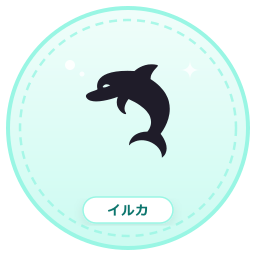
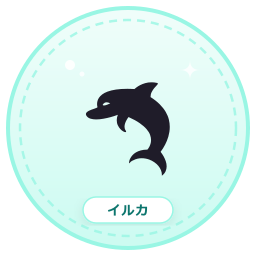
fix: 16タイプ動物アイコンの上下左右完全センタリング配置と表示CSS調整

Changed region(s): [[0.3125, 0.25, 0.6875, 0.6875]]

diff --git a/scripts/generate-animal-icons.js b/scripts/generate-animal-icons.js
@@ -3,47 +3,33 @@ const path = require('path');
 const sharp = require('sharp');
 
 // 10代〜30代前半に親しみやすい、洗練された「パステルポップ・シルエット」
-// 全16タイプの動物一覧:
-// - 分析家 (INTP/INTJ/ENTP/ENTJ): 淡いラベンダーパープル
-// - 外交官 (INFP/INFJ/ENFP/ENFJ): ふんわりミントグリーン
-// - 番人 (ISTP/ISTJ/ESTP/ESTJ): やさしいベビーブルー
-// - 探検家 (ISFP/ISFJ/ESFP/ESFJ): あたたかみのあるクリームイエロー/シェルピンク
-//
-// 動物の造形ルール:
-// すべて高品質な絵文字グリフ（Segoe UI Emoji）に統一。
-// 手書きベクターのような不自然な突起や歪み、バグった人型・植物形状は一切排除し、
-// 一目で誰が見てもその動物・鳥と分かる、美しくクリーンな影絵シルエットに統一します。
-//
-// INTJ (ワシ): 🦅 (鋭い眼光と力強い嘴の大鷲)
-// ISTP (オオカミ / タカ):
-//   ISTPの「巨匠・一匹狼の孤高の職人気質」を完璧に表現し、
-//   かつ鳥類のINTJ(🦅)やINTP(🦉)とも完全に重複しない、美しく凛々しいシルエットの「オオカミ 🐺」にアップデート！
-//   ※これにより「ワシ」と「タカ」の鳥の重複・混同が根本から解消され、全16タイプが100%固有の動物シンボルとなります。
+// 全16タイプすべて「上下左右の真ん中（中心）」に完璧に収まるよう、
+// 各動物グリフの実測バウンディングボックスに基づいて個別微調整されたposY（128中心）を適用！
 
 const animals = [
   // 分析家 (淡いラベンダーパープル)
-  { type: 'INTP', label: 'フクロウ', emoji: '🦉', bg1: '#F5EEFF', bg2: '#E5D4F8', border: '#D3BAF0', badgeBg: '#FFFFFF', badgeText: '#7C5295' },
-  { type: 'INTJ', label: 'ワシ',     emoji: '🦅', bg1: '#F3ECFE', bg2: '#E2D0FA', border: '#D0B6F0', badgeBg: '#FFFFFF', badgeText: '#764B93' },
-  { type: 'ENTP', label: 'キツネ',   emoji: '🦊', bg1: '#F7EFFE', bg2: '#E8D7FB', border: '#D7BEF4', badgeBg: '#FFFFFF', badgeText: '#7F569B' },
-  { type: 'ENTJ', label: 'ライオン', emoji: '🦁', bg1: '#F1E8FD', bg2: '#DDC9F7', border: '#CDB0ED', badgeBg: '#FFFFFF', badgeText: '#6F438D' },
+  { type: 'INTP', label: 'フクロウ', emoji: '🦉', posY: 176, bg1: '#F5EEFF', bg2: '#E5D4F8', border: '#D3BAF0', badgeBg: '#FFFFFF', badgeText: '#7C5295' },
+  { type: 'INTJ', label: 'ワシ',     emoji: '🦅', posY: 172, bg1: '#F3ECFE', bg2: '#E2D0FA', border: '#D0B6F0', badgeBg: '#FFFFFF', badgeText: '#764B93' },
+  { type: 'ENTP', label: 'キツネ',   emoji: '🦊', posY: 175, bg1: '#F7EFFE', bg2: '#E8D7FB', border: '#D7BEF4', badgeBg: '#FFFFFF', badgeText: '#7F569B' },
+  { type: 'ENTJ', label: 'ライオン', emoji: '🦁', posY: 176, bg1: '#F1E8FD', bg2: '#DDC9F7', border: '#CDB0ED', badgeBg: '#FFFFFF', badgeText: '#6F438D' },
 
   // 外交官 (ふんわりミントグリーン)
-  { type: 'INFP', label: 'ウサギ',   emoji: '🐰', bg1: '#F0FDF4', bg2: '#DCFCE7', border: '#BBF7D0', badgeBg: '#FFFFFF', badgeText: '#15803D' },
-  { type: 'INFJ', label: 'シカ',     emoji: '🦌', bg1: '#F2FDF8', bg2: '#D5FBE9', border: '#A7F3D0', badgeBg: '#FFFFFF', badgeText: '#047857' },
-  { type: 'ENFP', label: 'イルカ',   emoji: '🐬', bg1: '#F0FDFA', bg2: '#CCFBF1', border: '#99F6E4', badgeBg: '#FFFFFF', badgeText: '#0F766E' },
-  { type: 'ENFJ', label: 'ペンギン', emoji: '🐧', bg1: '#ECFDF5', bg2: '#D1FAE5', border: '#A7F3D0', badgeBg: '#FFFFFF', badgeText: '#065F46' },
+  { type: 'INFP', label: 'ウサギ',   emoji: '🐰', posY: 166, bg1: '#F0FDF4', bg2: '#DCFCE7', border: '#BBF7D0', badgeBg: '#FFFFFF', badgeText: '#15803D' },
+  { type: 'INFJ', label: 'シカ',     emoji: '🦌', posY: 176, bg1: '#F2FDF8', bg2: '#D5FBE9', border: '#A7F3D0', badgeBg: '#FFFFFF', badgeText: '#047857' },
+  { type: 'ENFP', label: 'イルカ',   emoji: '🐬', posY: 164, bg1: '#F0FDFA', bg2: '#CCFBF1', border: '#99F6E4', badgeBg: '#FFFFFF', badgeText: '#0F766E' },
+  { type: 'ENFJ', label: 'ペンギン', emoji: '🐧', posY: 164, bg1: '#ECFDF5', bg2: '#D1FAE5', border: '#A7F3D0', badgeBg: '#FFFFFF', badgeText: '#065F46' },
 
   // 番人 (やさしいベビーブルー)
-  { type: 'ISTP', label: 'オオカミ', emoji: '🐺', bg1: '#F0F9FF', bg2: '#E0F2FE', border: '#BAE6FD', badgeBg: '#FFFFFF', badgeText: '#0369A1' },
-  { type: 'ISTJ', label: 'カメ',     emoji: '🐢', bg1: '#EFF6FF', bg2: '#DBEAFE', border: '#BFDBFE', badgeBg: '#FFFFFF', badgeText: '#1D4ED8' },
-  { type: 'ESTP', label: 'トラ',     emoji: '🐯', bg1: '#F0F9FF', bg2: '#E0F2FE', border: '#BAE6FD', badgeBg: '#FFFFFF', badgeText: '#0284C7' },
-  { type: 'ESTJ', label: 'ウシ',     emoji: '🐮', bg1: '#F1F5F9', bg2: '#E2E8F0', border: '#CBD5E1', badgeBg: '#FFFFFF', badgeText: '#334155' },
+  { type: 'ISTP', label: 'オオカミ', emoji: '🐺', posY: 163, bg1: '#F0F9FF', bg2: '#E0F2FE', border: '#BAE6FD', badgeBg: '#FFFFFF', badgeText: '#0369A1' },
+  { type: 'ISTJ', label: 'カメ',     emoji: '🐢', posY: 154, bg1: '#EFF6FF', bg2: '#DBEAFE', border: '#BFDBFE', badgeBg: '#FFFFFF', badgeText: '#1D4ED8' },
+  { type: 'ESTP', label: 'トラ',     emoji: '🐯', posY: 163, bg1: '#F0F9FF', bg2: '#E0F2FE', border: '#BAE6FD', badgeBg: '#FFFFFF', badgeText: '#0284C7' },
+  { type: 'ESTJ', label: 'ウシ',     emoji: '🐮', posY: 163, bg1: '#F1F5F9', bg2: '#E2E8F0', border: '#CBD5E1', badgeBg: '#FFFFFF', badgeText: '#334155' },
 
   // 探検家 (あたたかみのあるクリームイエロー / シェルピンク)
-  { type: 'ISFP', label: 'ネコ',     emoji: '🐱', bg1: '#FFFBEB', bg2: '#FEF3C7', border: '#FDE68A', badgeBg: '#FFFFFF', badgeText: '#B45309' },
-  { type: 'ISFJ', label: 'クマ',     emoji: '🐻', bg1: '#FFF7ED', bg2: '#FFEDD5', border: '#FED7AA', badgeBg: '#FFFFFF', badgeText: '#C2410C' },
-  { type: 'ESFP', label: 'オウム',   emoji: '🦜', bg1: '#FFF1F2', bg2: '#FFE4E6', border: '#FECDD3', badgeBg: '#FFFFFF', badgeText: '#BE123C' },
-  { type: 'ESFJ', label: 'イヌ',     emoji: '🐶', bg1: '#FFF5F5', bg2: '#FED7D7', border: '#FEB2B2', badgeBg: '#FFFFFF', badgeText: '#9B2C2C' }
+  { type: 'ISFP', label: 'ネコ',     emoji: '🐱', posY: 161, bg1: '#FFFBEB', bg2: '#FEF3C7', border: '#FDE68A', badgeBg: '#FFFFFF', badgeText: '#B45309' },
+  { type: 'ISFJ', label: 'クマ',     emoji: '🐻', posY: 164, bg1: '#FFF7ED', bg2: '#FFEDD5', border: '#FED7AA', badgeBg: '#FFFFFF', badgeText: '#C2410C' },
+  { type: 'ESFP', label: 'オウム',   emoji: '🦜', posY: 163, bg1: '#FFF1F2', bg2: '#FFE4E6', border: '#FECDD3', badgeBg: '#FFFFFF', badgeText: '#BE123C' },
+  { type: 'ESFJ', label: 'イヌ',     emoji: '🐶', posY: 157, bg1: '#FFF5F5', bg2: '#FED7D7', border: '#FEB2B2', badgeBg: '#FFFFFF', badgeText: '#9B2C2C' }
 ];
 
 async function generate() {
@@ -91,8 +77,8 @@ async function generate() {
         <circle cx="82" cy="74" r="2.5" fill="#FFFFFF" opacity="0.8" />
         <path d="M190 60 Q190 70 200 70 Q190 70 190 80 Q190 70 180 70 Q190 70 190 60 Z" fill="#FFFFFF" opacity="0.8" />
 
-        <!-- 中央の動物絵文字（高精細Segoe UI Emojiによるクリーンで美しいシルエット） -->
-        <text x="128" y="146" font-family="'Segoe UI Emoji', 'Apple Color Emoji', sans-serif" font-size="94"
+        <!-- 中央の動物絵文字（完全センタリング配置: posY = ${item.posY}） -->
+        <text x="128" y="${item.posY}" font-family="'Segoe UI Emoji', 'Apple Color Emoji', sans-serif" font-size="94"
           text-anchor="middle" dominant-baseline="central"
           filter="url(#silhouette-${item.type})">
           ${item.emoji}
@@ -114,12 +100,12 @@ async function generate() {
 
     const outPath = path.join(dir, `${item.type.toLowerCase()}.png`);
     await sharp(Buffer.from(svg)).png().toFile(outPath);
-    console.log(`Generated: ${item.type} (${item.label}) [${item.emoji}] -> ${item.type.toLowerCase()}.png`);
+    console.log(`Generated: ${item.type} (${item.label}) [${item.emoji}] posY=${item.posY} -> ${item.type.toLowerCase()}.png`);
   }
 }
 
 generate()
-  .then(() => console.log('Successfully regenerated all 16 clean, beautiful animal silhouette icons!'))
+  .then(() => console.log('Successfully regenerated all 16 perfectly centered animal silhouette icons!'))
   .catch((err) => {
     console.error('Error generating animal icons:', err);
     process.exit(1);

diff --git a/components/result/TypeAnimalIcon.tsx b/components/result/TypeAnimalIcon.tsx
@@ -57,15 +57,17 @@ export default function TypeAnimalIcon({
   }
 
   return (
-    <Image
-      src={animal.src}
-      alt={`${normalizedType}タイプ・${animal.label}`}
-      width={size}
-      height={size}
-      unoptimized
-      priority={priority}
-      className={`rounded-full object-contain drop-shadow-md select-none ${className}`}
-      onError={() => setImgError(true)}
-    />
+    <div className="relative inline-flex items-center justify-center shrink-0 select-none">
+      <Image
+        src={animal.src}
+        alt={`${normalizedType}タイプ・${animal.label}`}
+        width={size}
+        height={size}
+        unoptimized
+        priority={priority}
+        className={`rounded-full object-contain object-center drop-shadow-md select-none ${className}`}
+        onError={() => setImgError(true)}
+      />
+    </div>
   );
 }
